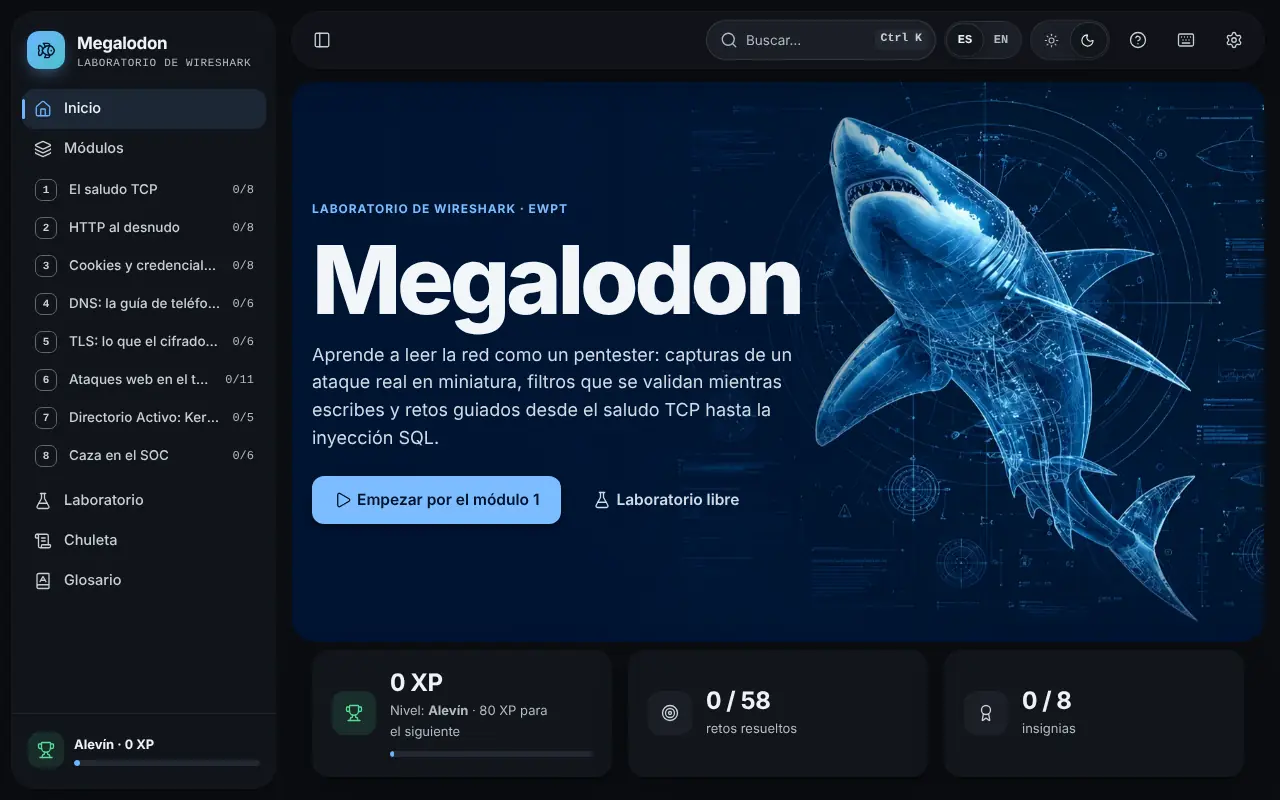
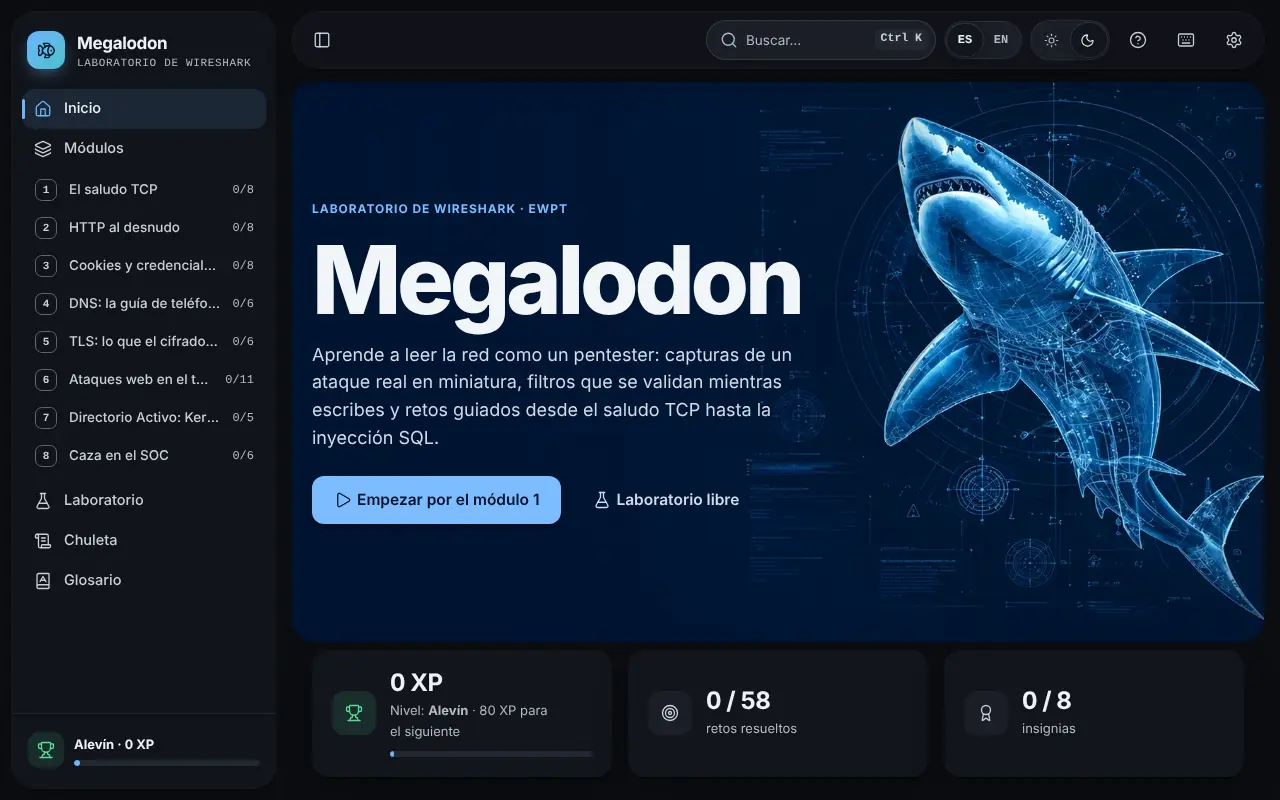
Encuadra la ilustración para que el texto no pise al tiburón con fuentes anchas
La CI falló: en el ejecutor de GitHub el título usa DejaVu Sans, más
ancha que Inter, y a 1280 px «Megalodon» acababa en x 862 con el tiburón
empezando en x 817. Incluso con Inter, el párrafo de entrada rozaba la
aleta pectoral.

La ilustración se alinea al 62 % (antes 78 %): a 1280 px el tiburón
empieza a la derecha del texto y la cola sigue cabiendo. La prueba mide
ahora el texto real del título, la entrada y los botones, y se repite con
DejaVu Sans; con la alineación anterior reproduce el fallo de la CI
(817 frente a 862) y con la nueva pasa.

diff --git a/dist/index.html b/dist/index.html
@@ -3,7 +3,7 @@
 <head>
 <meta charset="utf-8">
 <meta name="viewport" content="width=device-width, initial-scale=1, viewport-fit=cover">
-<meta http-equiv="Content-Security-Policy" content="default-src 'none'; script-src 'sha256-eQ6p6xmFTuutRGA/Y2kQmE54sQu6zj3VthIziND8ip0='; style-src 'sha256-tMcRJYDaG9sHho5xeUb1nNe0+K/5PvpfQxfmJlHo6Mw='; img-src data: blob:; connect-src 'none'; font-src 'none'; object-src 'none'; frame-src 'none'; base-uri 'none'; form-action 'none'">
+<meta http-equiv="Content-Security-Policy" content="default-src 'none'; script-src 'sha256-eQ6p6xmFTuutRGA/Y2kQmE54sQu6zj3VthIziND8ip0='; style-src 'sha256-2RsALOCXS/rS2FrQPQWQ5m9P84VbB5kiaXRmF5oQ72E='; img-src data: blob:; connect-src 'none'; font-src 'none'; object-src 'none'; frame-src 'none'; base-uri 'none'; form-action 'none'">
 <meta name="referrer" content="no-referrer">
 <meta name="color-scheme" content="dark light">
 <meta name="description" content="Megalodon: laboratorio de Wireshark sin conexión. Capturas de un pentest, filtros con validación al instante y retos guiados del saludo TCP a los ataques web.">
@@ -173,7 +173,7 @@ button:disabled { cursor: not-allowed; }
 }
 .hero-art { position: absolute; inset: 0; z-index: -2; overflow: hidden; }
 .hero-art picture, .hero-img { display: block; width: 100%; height: 100%; }
-.hero-img { object-fit: cover; object-position: 78% 50%; transform-origin: 72% 46%; animation: hero-drift 36s var(--ease-in-out) infinite alternate; will-change: transform; }
+.hero-img { object-fit: cover; object-position: 62% 50%; transform-origin: 74% 46%; animation: hero-drift 36s var(--ease-in-out) infinite alternate; will-change: transform; }
 @keyframes hero-drift { from { transform: scale(1.001); } to { transform: scale(1.06) translate3d(-0.8%, -0.6%, 0); } }
 .hero::before { content: ''; position: absolute; inset: 0; z-index: -1; pointer-events: none;
   background: linear-gradient(90deg, var(--hero-bg) 0%, color-mix(in srgb, var(--hero-bg) 92%, transparent) 34%, color-mix(in srgb, var(--hero-bg) 55%, transparent) 50%, transparent 68%),

diff --git a/megalodon.html b/megalodon.html
@@ -3,7 +3,7 @@
 <head>
 <meta charset="utf-8">
 <meta name="viewport" content="width=device-width, initial-scale=1, viewport-fit=cover">
-<meta http-equiv="Content-Security-Policy" content="default-src 'none'; script-src 'sha256-eQ6p6xmFTuutRGA/Y2kQmE54sQu6zj3VthIziND8ip0='; style-src 'sha256-tMcRJYDaG9sHho5xeUb1nNe0+K/5PvpfQxfmJlHo6Mw='; img-src data: blob:; connect-src 'none'; font-src 'none'; object-src 'none'; frame-src 'none'; base-uri 'none'; form-action 'none'">
+<meta http-equiv="Content-Security-Policy" content="default-src 'none'; script-src 'sha256-eQ6p6xmFTuutRGA/Y2kQmE54sQu6zj3VthIziND8ip0='; style-src 'sha256-2RsALOCXS/rS2FrQPQWQ5m9P84VbB5kiaXRmF5oQ72E='; img-src data: blob:; connect-src 'none'; font-src 'none'; object-src 'none'; frame-src 'none'; base-uri 'none'; form-action 'none'">
 <meta name="referrer" content="no-referrer">
 <meta name="color-scheme" content="dark light">
 <meta name="description" content="Megalodon: laboratorio de Wireshark sin conexión. Capturas de un pentest, filtros con validación al instante y retos guiados del saludo TCP a los ataques web.">
@@ -173,7 +173,7 @@ button:disabled { cursor: not-allowed; }
 }
 .hero-art { position: absolute; inset: 0; z-index: -2; overflow: hidden; }
 .hero-art picture, .hero-img { display: block; width: 100%; height: 100%; }
-.hero-img { object-fit: cover; object-position: 78% 50%; transform-origin: 72% 46%; animation: hero-drift 36s var(--ease-in-out) infinite alternate; will-change: transform; }
+.hero-img { object-fit: cover; object-position: 62% 50%; transform-origin: 74% 46%; animation: hero-drift 36s var(--ease-in-out) infinite alternate; will-change: transform; }
 @keyframes hero-drift { from { transform: scale(1.001); } to { transform: scale(1.06) translate3d(-0.8%, -0.6%, 0); } }
 .hero::before { content: ''; position: absolute; inset: 0; z-index: -1; pointer-events: none;
   background: linear-gradient(90deg, var(--hero-bg) 0%, color-mix(in srgb, var(--hero-bg) 92%, transparent) 34%, color-mix(in srgb, var(--hero-bg) 55%, transparent) 50%, transparent 68%),

diff --git a/src/styles.css b/src/styles.css
@@ -161,7 +161,7 @@ button:disabled { cursor: not-allowed; }
 }
 .hero-art { position: absolute; inset: 0; z-index: -2; overflow: hidden; }
 .hero-art picture, .hero-img { display: block; width: 100%; height: 100%; }
-.hero-img { object-fit: cover; object-position: 78% 50%; transform-origin: 72% 46%; animation: hero-drift 36s var(--ease-in-out) infinite alternate; will-change: transform; }
+.hero-img { object-fit: cover; object-position: 62% 50%; transform-origin: 74% 46%; animation: hero-drift 36s var(--ease-in-out) infinite alternate; will-change: transform; }
 @keyframes hero-drift { from { transform: scale(1.001); } to { transform: scale(1.06) translate3d(-0.8%, -0.6%, 0); } }
 .hero::before { content: ''; position: absolute; inset: 0; z-index: -1; pointer-events: none;
   background: linear-gradient(90deg, var(--hero-bg) 0%, color-mix(in srgb, var(--hero-bg) 92%, transparent) 34%, color-mix(in srgb, var(--hero-bg) 55%, transparent) 50%, transparent 68%),

diff --git a/CHANGELOG.md b/CHANGELOG.md
@@ -6,7 +6,7 @@ Formato [Keep a Changelog](https://keepachangelog.com/es-ES/1.1.0/) y versionado
 
 ### Cambiado
 - **La portada vuelve a la ilustración** del megalodón como plano técnico azul, ahora en mejor calidad: AVIF y WebP de 1983 × 793 px, de unos 70 KB cada uno, codificados desde el original (PSNR de 40 y 38 dB).
-- **Encuadre con la barra lateral:** el tiburón queda a la derecha del título a 1280, 1440 y 1920 px, también con la barra plegada.
+- **Encuadre con la barra lateral:** la ilustración se alinea al 62 % (antes al 78 %) para que el tiburón empiece a la derecha del título y del texto de entrada a 1280, 1440 y 1920 px, también con la barra plegada y con fuentes del sistema anchas como DejaVu Sans.
 
 ### Eliminado
 - **El megalodón 3D en WebGL2** (`src/app/48-shark.js`), con su vista «Plano técnico», el botón de pausa y sus notas (`docs/megalodon-3d.md`). No convencía visualmente. La página pesa unos 100 KB menos (de 655 a 550 KB) y ya no necesita WebGL.
@@ -14,7 +14,7 @@ Formato [Keep a Changelog](https://keepachangelog.com/es-ES/1.1.0/) y versionado
 ### Pruebas
 - Sustituyen a las del 3D:
   - la ilustración carga con su tamaño y su texto alternativo, y no queda ningún lienzo;
-  - el tiburón no queda bajo el título en cuatro encuadres;
+  - el tiburón no queda bajo el texto en seis encuadres, dos de ellos con una fuente ancha (así lo detectó la CI de GitHub, que no tiene Inter);
   - con «reducir movimiento», la ilustración queda quieta.
 
 ## [1.3.0] - 2026-11-25
